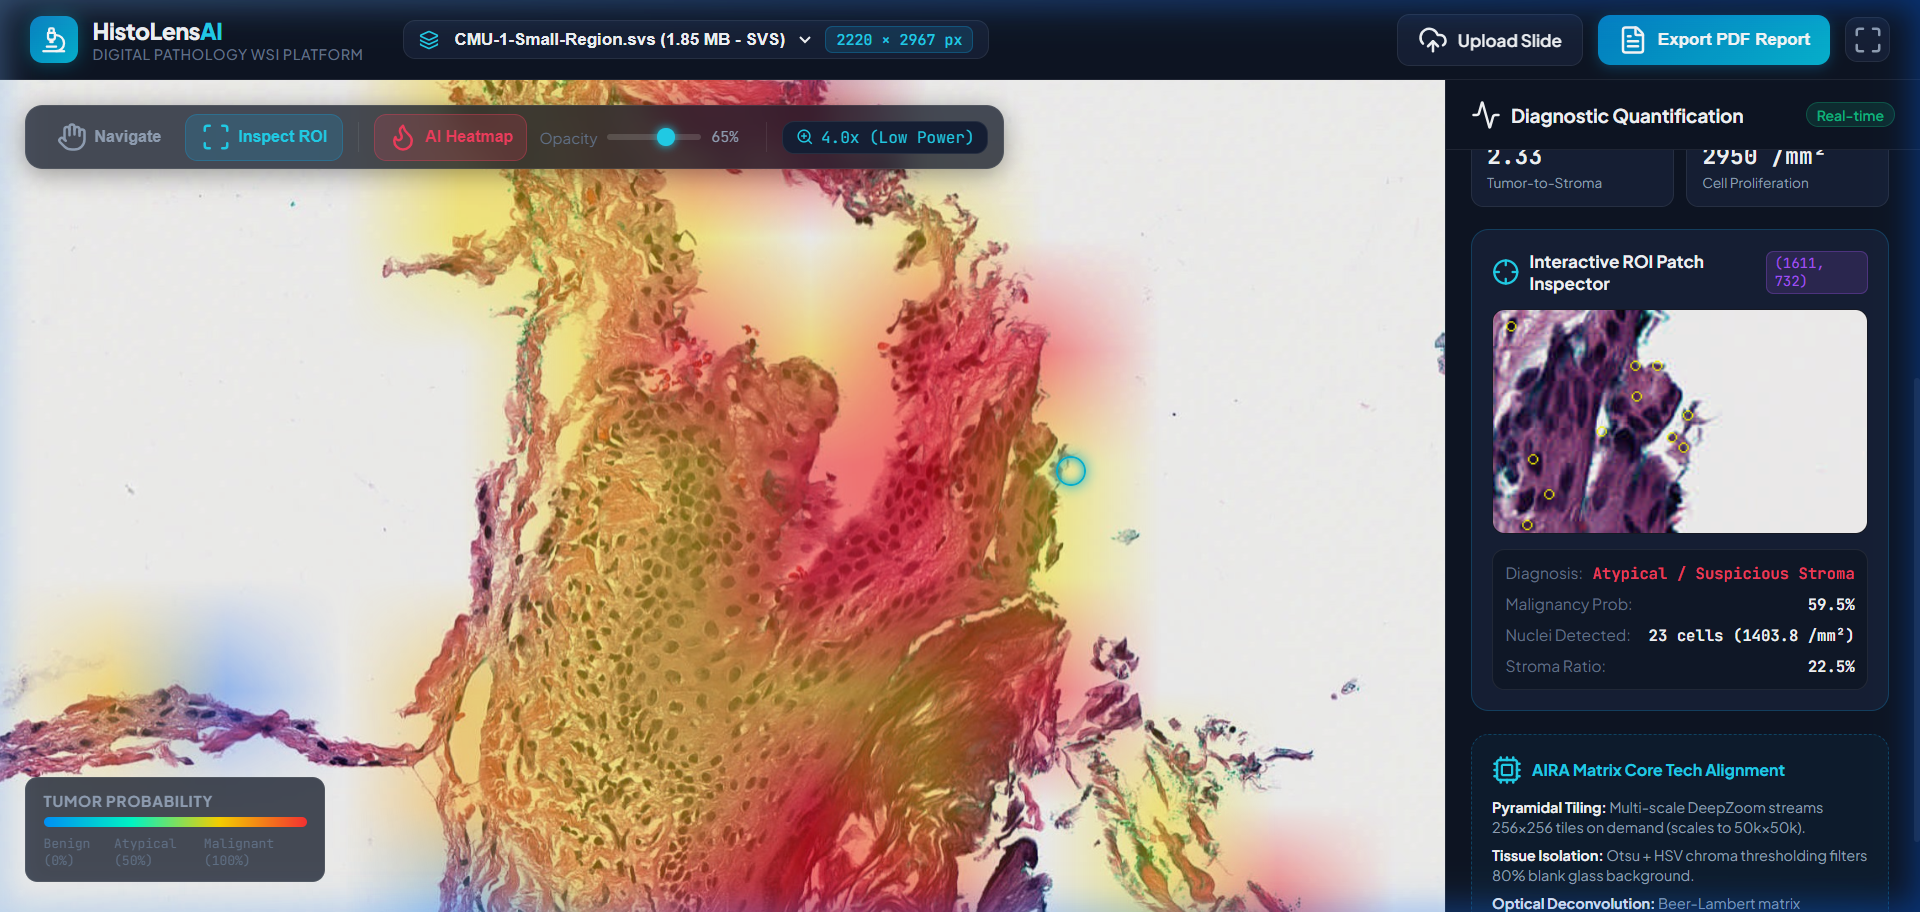
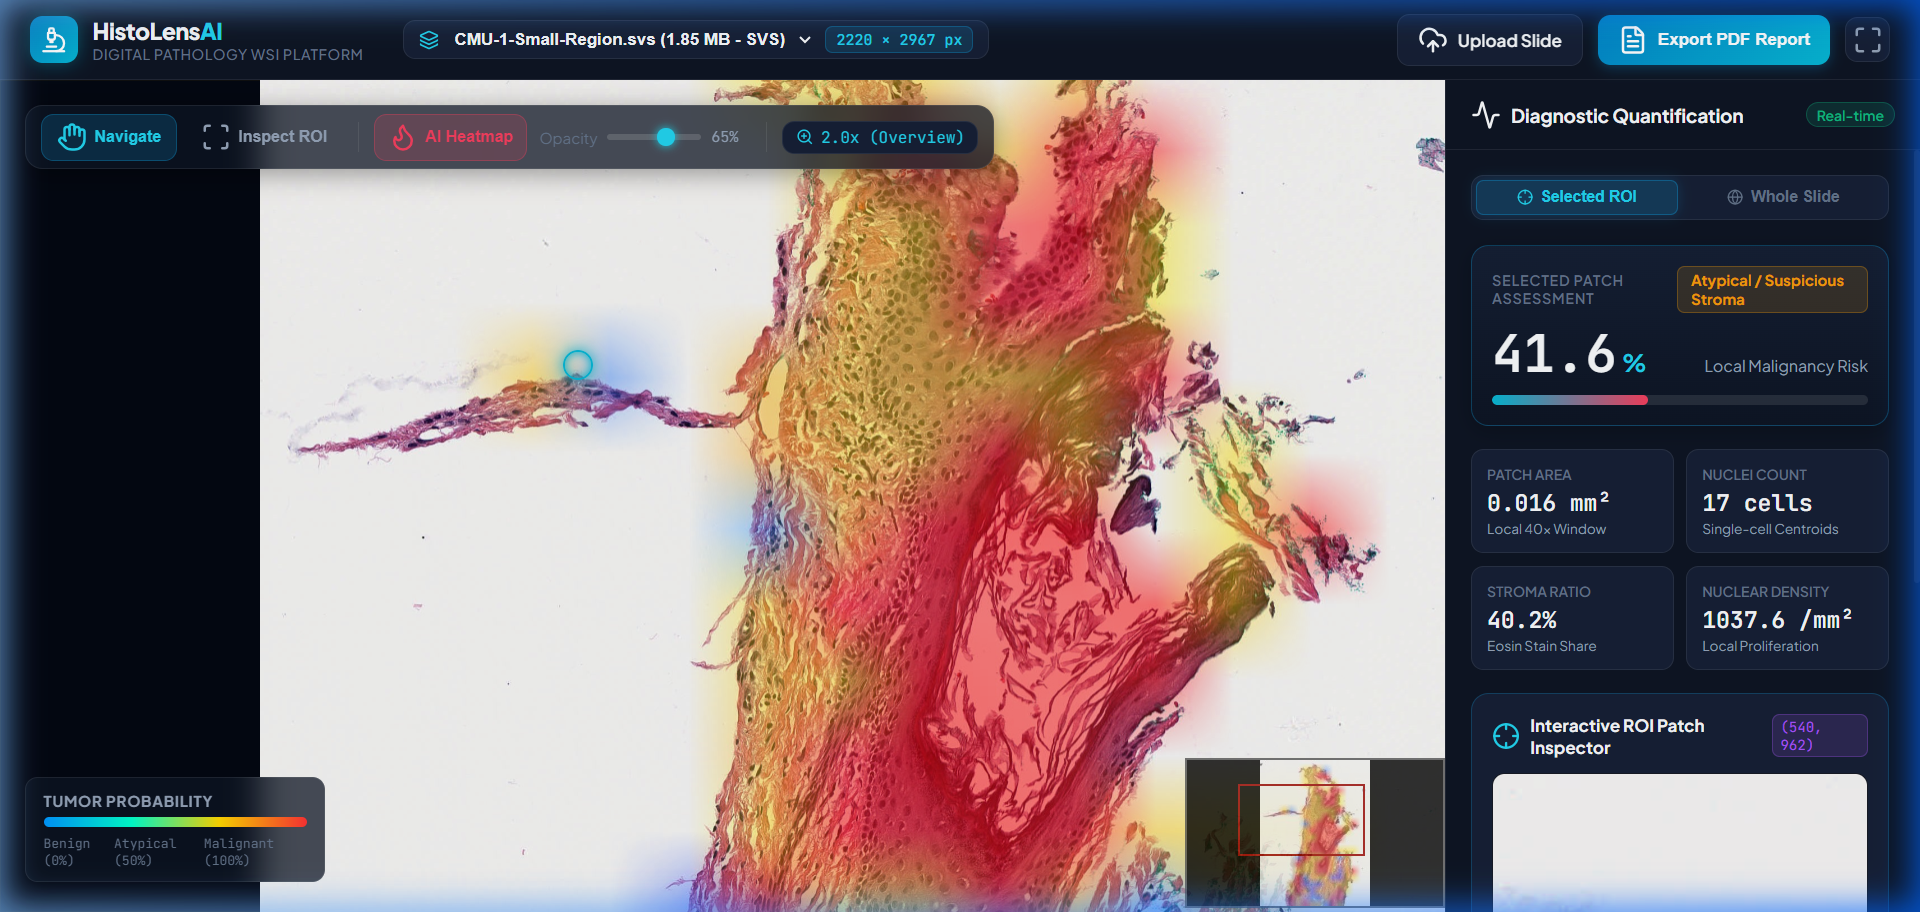
feat: Add dynamic ROI metrics scope switcher and instant click reactivity

diff --git a/frontend/app.js b/frontend/app.js
@@ -9,6 +9,10 @@ let heatmapItem = null;
 let activeTool = 'pan'; // 'pan' | 'roi'
 let roiMarkerOverlay = null;
 
+let currentScope = 'roi'; // 'roi' | 'slide'
+let slideMetrics = null;
+let lastRoiData = null;
+
 document.addEventListener('DOMContentLoaded', () => {
     lucide.createIcons();
     initUI();
@@ -22,6 +26,15 @@ function initUI() {
 
     btnPan.addEventListener('click', () => setTool('pan'));
     btnRoi.addEventListener('click', () => setTool('roi'));
+
+    // Scope toggle buttons (Selected ROI vs Whole Slide)
+    const btnScopeRoi = document.getElementById('scope-roi');
+    const btnScopeSlide = document.getElementById('scope-slide');
+
+    if (btnScopeRoi && btnScopeSlide) {
+        btnScopeRoi.addEventListener('click', () => setScope('roi'));
+        btnScopeSlide.addEventListener('click', () => setScope('slide'));
+    }
 
     // Heatmap controls
     const toggleHeatmapBtn = document.getElementById('toggle-heatmap');
@@ -222,20 +235,19 @@ function initOpenSeadragon(slideId, metadata) {
         document.getElementById('mag-text').textContent = magText;
     });
 
-    // Dedicated MouseTracker for reliable ROI inspection clicks
-    new OpenSeadragon.MouseTracker({
-        element: viewer.canvas,
-        clickHandler: function(event) {
-            if (activeTool !== 'roi') return;
-            const viewportPoint = viewer.viewport.pointFromPixel(event.position);
-            const imagePoint = viewer.viewport.viewportToImageCoordinates(viewportPoint);
-            const imgX = Math.round(imagePoint.x);
-            const imgY = Math.round(imagePoint.y);
+    // Official OpenSeadragon canvas-click handler (fires on clicks, ignores drag/pan)
+    viewer.addHandler('canvas-click', function(event) {
+        if (!event.quick) return; // Only process clean clicks, not pan drags
+        event.preventGesture = true;
 
-            if (imgX >= 0 && imgX <= metadata.Size.Width && imgY >= 0 && imgY <= metadata.Size.Height) {
-                triggerRoiInspection(imgX, imgY);
-                addRoiMarkerOnCanvas(imagePoint);
-            }
+        const viewportPoint = viewer.viewport.pointFromPixel(event.position);
+        const imagePoint = viewer.viewport.viewportToImageCoordinates(viewportPoint);
+        const imgX = Math.round(imagePoint.x);
+        const imgY = Math.round(imagePoint.y);
+
+        if (imgX >= 0 && imgX <= metadata.Size.Width && imgY >= 0 && imgY <= metadata.Size.Height) {
+            triggerRoiInspection(imgX, imgY);
+            addRoiMarkerOnCanvas(imagePoint);
         }
     });
 }
@@ -280,6 +292,90 @@ function addRoiMarkerOnCanvas(imagePoint) {
     roiMarkerOverlay = marker;
 }
 
+function setScope(scope) {
+    currentScope = scope;
+    const btnRoi = document.getElementById('scope-roi');
+    const btnSlide = document.getElementById('scope-slide');
+    if (btnRoi && btnSlide) {
+        btnRoi.classList.toggle('active', scope === 'roi');
+        btnSlide.classList.toggle('active', scope === 'slide');
+    }
+    renderDashboard();
+}
+
+function renderDashboard() {
+    if (currentScope === 'roi' && lastRoiData) {
+        document.getElementById('card-tag-label').textContent = 'Selected Patch Assessment';
+        document.getElementById('hero-metric-desc').textContent = 'Local Malignancy Risk';
+
+        const probPct = (lastRoiData.tumor_probability * 100).toFixed(1);
+        document.getElementById('metric-tumor-burden').textContent = probPct;
+        document.getElementById('tumor-burden-progress').style.width = `${Math.min(100, probPct)}%`;
+
+        const riskBadge = document.getElementById('risk-badge');
+        riskBadge.textContent = lastRoiData.classification;
+        riskBadge.removeAttribute('style');
+        if (lastRoiData.tumor_probability > 0.6) {
+            riskBadge.className = 'risk-badge risk-high';
+        } else if (lastRoiData.tumor_probability > 0.35) {
+            riskBadge.className = 'risk-badge risk-moderate';
+        } else {
+            riskBadge.className = 'risk-badge';
+            riskBadge.style.backgroundColor = 'rgba(16, 185, 129, 0.15)';
+            riskBadge.style.color = '#10B981';
+            riskBadge.style.border = '1px solid rgba(16, 185, 129, 0.3)';
+        }
+
+        document.getElementById('box-1-label').textContent = 'Patch Area';
+        document.getElementById('metric-tissue-area').textContent = '0.016 mm²';
+        document.getElementById('box-1-sub').textContent = 'Local 40x Window';
+
+        document.getElementById('box-2-label').textContent = 'Nuclei Count';
+        document.getElementById('metric-tumor-area').textContent = `${lastRoiData.nuclei_count} cells`;
+        document.getElementById('box-2-sub').textContent = 'Single-cell Centroids';
+
+        document.getElementById('box-3-label').textContent = 'Stroma Ratio';
+        document.getElementById('metric-tsr').textContent = `${(lastRoiData.stroma_ratio * 100).toFixed(1)}%`;
+        document.getElementById('box-3-sub').textContent = 'Eosin Stain Share';
+
+        document.getElementById('box-4-label').textContent = 'Nuclear Density';
+        document.getElementById('metric-nuclear-density').textContent = `${lastRoiData.nuclei_density_per_mm2} /mm²`;
+        document.getElementById('box-4-sub').textContent = 'Local Proliferation';
+
+    } else if (slideMetrics) {
+        document.getElementById('card-tag-label').textContent = 'WHO Disease Stratification';
+        document.getElementById('hero-metric-desc').textContent = 'Slide Tumor Burden';
+
+        document.getElementById('metric-tumor-burden').textContent = slideMetrics.tumor_burden_pct;
+        document.getElementById('tumor-burden-progress').style.width = `${Math.min(100, slideMetrics.tumor_burden_pct)}%`;
+
+        const riskBadge = document.getElementById('risk-badge');
+        riskBadge.textContent = slideMetrics.risk_level;
+        riskBadge.removeAttribute('style');
+        if (slideMetrics.tumor_burden_pct > 35) {
+            riskBadge.className = 'risk-badge risk-high';
+        } else {
+            riskBadge.className = 'risk-badge risk-moderate';
+        }
+
+        document.getElementById('box-1-label').textContent = 'Tissue Area';
+        document.getElementById('metric-tissue-area').textContent = `${slideMetrics.tissue_area_mm2} mm²`;
+        document.getElementById('box-1-sub').textContent = 'Viable Specimen';
+
+        document.getElementById('box-2-label').textContent = 'Tumor Area';
+        document.getElementById('metric-tumor-area').textContent = `${slideMetrics.tumor_area_mm2} mm²`;
+        document.getElementById('box-2-sub').textContent = 'Infiltrating Mass';
+
+        document.getElementById('box-3-label').textContent = 'TSR Ratio';
+        document.getElementById('metric-tsr').textContent = `${slideMetrics.tumor_to_stroma_ratio}`;
+        document.getElementById('box-3-sub').textContent = 'Tumor-to-Stroma';
+
+        document.getElementById('box-4-label').textContent = 'Nuclear Density';
+        document.getElementById('metric-nuclear-density').textContent = `${slideMetrics.estimated_nuclei_density} /mm²`;
+        document.getElementById('box-4-sub').textContent = 'Cell Proliferation';
+    }
+}
+
 async function triggerRoiInspection(x, y) {
     const placeholder = document.getElementById('roi-placeholder');
     const patchImg = document.getElementById('roi-patch-image');
@@ -295,6 +391,8 @@ async function triggerRoiInspection(x, y) {
             body: JSON.stringify({ x: x, y: y, size: 256 })
         });
         const data = await resp.json();
+
+        lastRoiData = data;
 
         // Update ROI card
         placeholder.style.display = 'none';
@@ -316,6 +414,10 @@ async function triggerRoiInspection(x, y) {
         document.getElementById('roi-stroma-ratio').textContent = `${(data.stroma_ratio * 100).toFixed(1)}%`;
 
         badge.textContent = `(${x}, ${y})`;
+
+        // Automatically update the top dashboard metrics to reflect the clicked area
+        setScope('roi');
+
     } catch (err) {
         console.error('ROI analysis error:', err);
         badge.textContent = 'Error';
@@ -326,23 +428,10 @@ async function fetchMetrics(slideId) {
     try {
         const resp = await fetch(`/api/slide/${slideId}/metrics`);
         const metrics = await resp.json();
+        slideMetrics = metrics;
 
-        // Update summary cards
-        document.getElementById('metric-tumor-burden').textContent = metrics.tumor_burden_pct;
-        document.getElementById('tumor-burden-progress').style.width = `${Math.min(100, metrics.tumor_burden_pct)}%`;
-
-        const riskBadge = document.getElementById('risk-badge');
-        riskBadge.textContent = metrics.risk_level;
-        if (metrics.tumor_burden_pct > 35) {
-            riskBadge.className = 'risk-badge risk-high';
-        } else {
-            riskBadge.className = 'risk-badge risk-moderate';
-        }
-
-        document.getElementById('metric-tissue-area').textContent = `${metrics.tissue_area_mm2} mm²`;
-        document.getElementById('metric-tumor-area').textContent = `${metrics.tumor_area_mm2} mm²`;
-        document.getElementById('metric-tsr').textContent = `${metrics.tumor_to_stroma_ratio}`;
-        document.getElementById('metric-nuclear-density').textContent = `${metrics.estimated_nuclei_density} /mm²`;
+        // Render dashboard with active scope
+        renderDashboard();
 
     } catch (err) {
         console.error('Failed to fetch slide metrics:', err);

diff --git a/frontend/index.html b/frontend/index.html
@@ -130,18 +130,30 @@
             </div>
 
             <div class="sidebar-scrollable">
-                <!-- Primary Clinical Summary Card -->
+                <!-- Scope Switcher: Selected ROI vs Whole Slide -->
+                <div class="scope-toggle-container">
+                    <button id="scope-roi" class="scope-btn active" title="View metrics for the selected tissue patch">
+                        <i data-lucide="crosshair"></i>
+                        <span>Selected ROI</span>
+                    </button>
+                    <button id="scope-slide" class="scope-btn" title="View aggregated metrics for the entire biopsy slide">
+                        <i data-lucide="globe"></i>
+                        <span>Whole Slide</span>
+                    </button>
+                </div>
+
+                <!-- Primary Clinical Summary Card (Dynamically updates with Selected ROI or Whole Slide) -->
                 <div class="card summary-card">
                     <div class="card-title-row">
-                        <span class="card-tag">WHO Disease Stratification</span>
-                        <span id="risk-badge" class="risk-badge risk-moderate">Calculating...</span>
+                        <span id="card-tag-label" class="card-tag">Selected Patch Assessment</span>
+                        <span id="risk-badge" class="risk-badge risk-moderate">Analyzing...</span>
                     </div>
                     <div class="metric-hero">
                         <div class="hero-val-group">
                             <span id="metric-tumor-burden" class="hero-val">--</span>
                             <span class="hero-unit">%</span>
                         </div>
-                        <span class="hero-desc">Tumor Burden Ratio</span>
+                        <span id="hero-metric-desc" class="hero-desc">Local Malignancy Risk</span>
                     </div>
                     <div class="progress-bar-container">
                         <div id="tumor-burden-progress" class="progress-bar-fill" style="width: 0%;"></div>
@@ -151,24 +163,24 @@
                 <!-- Secondary Quantitative Biomarkers Grid -->
                 <div class="biomarker-grid">
                     <div class="biomarker-box">
-                        <span class="box-label">Tissue Area</span>
-                        <span id="metric-tissue-area" class="box-value">-- mm²</span>
-                        <span class="box-sub">Viable Specimen</span>
+                        <span id="box-1-label" class="box-label">Patch Area</span>
+                        <span id="metric-tissue-area" class="box-value">--</span>
+                        <span id="box-1-sub" class="box-sub">Local 40x Window</span>
                     </div>
                     <div class="biomarker-box">
-                        <span class="box-label">Tumor Area</span>
-                        <span id="metric-tumor-area" class="box-value">-- mm²</span>
-                        <span class="box-sub">Infiltrating Mass</span>
+                        <span id="box-2-label" class="box-label">Nuclei Count</span>
+                        <span id="metric-tumor-area" class="box-value">--</span>
+                        <span id="box-2-sub" class="box-sub">Single-cell Centroids</span>
                     </div>
                     <div class="biomarker-box">
-                        <span class="box-label">TSR Ratio</span>
+                        <span id="box-3-label" class="box-label">Stroma Ratio</span>
                         <span id="metric-tsr" class="box-value">--</span>
-                        <span id="metric-tsr-label" class="box-sub">Tumor-to-Stroma</span>
+                        <span id="box-3-sub" class="box-sub">Eosin Stain Share</span>
                     </div>
                     <div class="biomarker-box">
-                        <span class="box-label">Nuclear Density</span>
+                        <span id="box-4-label" class="box-label">Nuclear Density</span>
                         <span id="metric-nuclear-density" class="box-value">-- /mm²</span>
-                        <span class="box-sub">Cell Proliferation</span>
+                        <span id="box-4-sub" class="box-sub">Local Proliferation</span>
                     </div>
                 </div>
 

diff --git a/frontend/style.css b/frontend/style.css
@@ -526,6 +526,50 @@ body {
     border-radius: 4px;
 }
 
+/* Scope Switcher */
+.scope-toggle-container {
+    display: flex;
+    background: var(--bg-surface-elevated);
+    border: 1px solid var(--border-subtle);
+    border-radius: var(--radius-md);
+    padding: 3px;
+    gap: 4px;
+    margin-bottom: 2px;
+}
+
+.scope-btn {
+    flex: 1;
+    display: flex;
+    align-items: center;
+    justify-content: center;
+    gap: 6px;
+    background: transparent;
+    border: 1px solid transparent;
+    color: var(--text-muted);
+    font-size: 0.78rem;
+    font-weight: 600;
+    padding: 6px 10px;
+    border-radius: var(--radius-sm);
+    cursor: pointer;
+    transition: var(--transition-fast);
+}
+
+.scope-btn:hover {
+    color: var(--text-primary);
+}
+
+.scope-btn.active {
+    background: rgba(14, 165, 233, 0.2);
+    color: var(--cyan-400);
+    border-color: rgba(14, 165, 233, 0.35);
+    box-shadow: 0 0 10px rgba(14, 165, 233, 0.2);
+}
+
+.scope-btn svg {
+    width: 13px;
+    height: 13px;
+}
+
 /* Cards */
 .card {
     background: var(--bg-surface-elevated);
